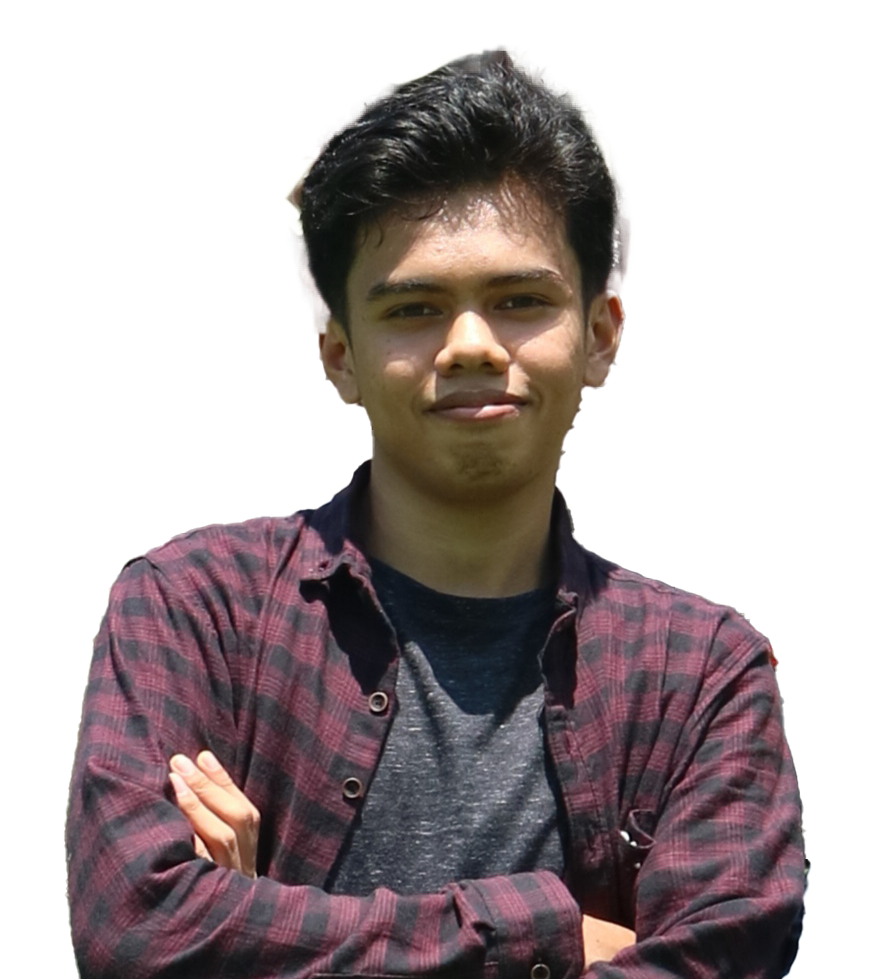
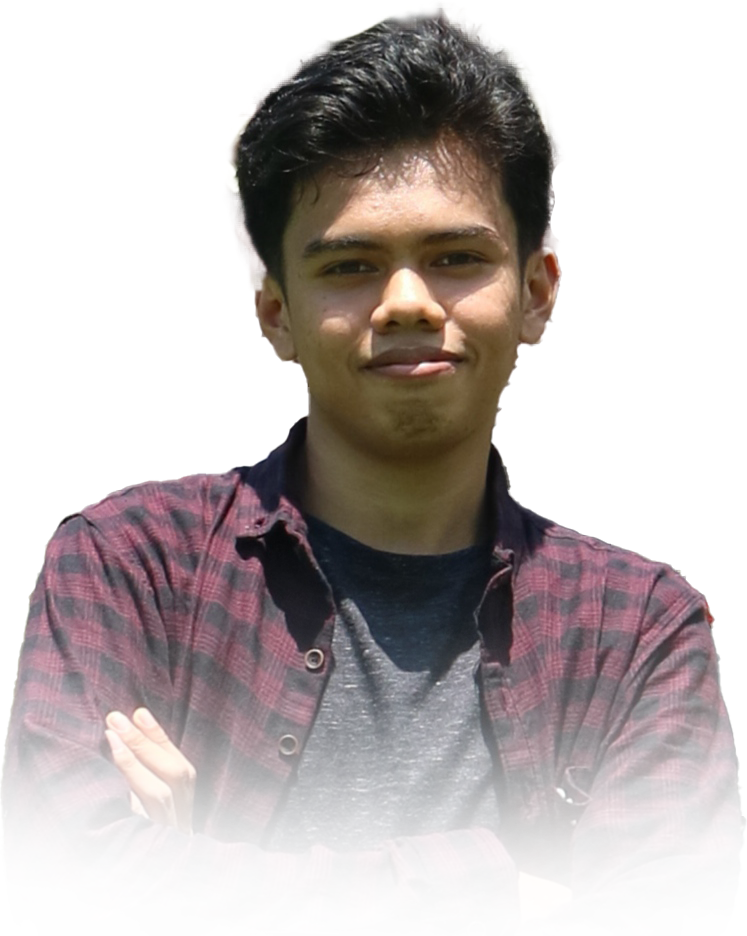
feat: replace SVG with Next.js Image component in Hero section and update image styles

diff --git a/components/Hero.tsx b/components/Hero.tsx
@@ -1,3 +1,5 @@
+import Image from "next/image";
+
 import type { HeroContent } from "../data/portfolio";
 
 type HeroProps = {
@@ -68,31 +70,16 @@ export function Hero({ content }: HeroProps) {
         ))}
       </div>
 
-      <div className="home__img absolute bottom-0 right-0 w-[260px] max-[585px]:hidden sm:bottom-[25%] sm:w-[240px] md:bottom-[10%] md:w-[300px] lg:w-[450px]">
-        <svg
-          className="home__blob fill-accent"
-          viewBox="0 0 479 467"
-          role="img"
-          aria-label={image.alt}
-          xmlns="http://www.w3.org/2000/svg"
-          xmlnsXlink="http://www.w3.org/1999/xlink"
-        >
-          <mask id="mask0">
-            <path
-              fill="#fff"
-              d="M9.19024 145.964C34.0253 76.5814 114.865 54.7299 184.111 29.4823C245.804 6.98884 311.86 -14.9503 370.735 14.143C431.207 44.026 467.948 107.508 477.191 174.311C485.897 237.229 454.931 294.377 416.506 344.954C373.74 401.245 326.068 462.801 255.442 466.189C179.416 469.835 111.552 422.137 65.1576 361.805C17.4835 299.81 -17.1617 219.583 9.19024 145.964Z"
-            />
-          </mask>
-          <g mask="url(#mask0)">
-            <path d="M9.19024 145.964C34.0253 76.5814 114.865 54.7299 184.111 29.4823C245.804 6.98884 311.86 -14.9503 370.735 14.143C431.207 44.026 467.948 107.508 477.191 174.311C485.897 237.229 454.931 294.377 416.506 344.954C373.74 401.245 326.068 462.801 255.442 466.189C179.416 469.835 111.552 422.137 65.1576 361.805C17.4835 299.81 -17.1617 219.583 9.19024 145.964Z" />
-            <image
-              className="home__blob-img w-[23rem]"
-              x="50"
-              y="70"
-              xlinkHref={image.src}
-            />
-          </g>
-        </svg>
+      <div className="home__img absolute bottom-0 right-0 w-[300px] max-[585px]:hidden sm:bottom-[25%] sm:w-[280px] md:bottom-[10%] md:w-[340px] lg:w-[520px]">
+        <Image
+          src={image.src}
+          alt={image.alt}
+          width={640}
+          height={800}
+          sizes="(min-width: 1200px) 520px, (min-width: 768px) 340px, 280px"
+          className="w-full rounded-3xl object-cover"
+          priority
+        />
       </div>
     </section>
   );

diff --git a/components/Navigation.tsx b/components/Navigation.tsx
@@ -30,7 +30,7 @@ export function Navigation({
         </div>
 
         <div
-          className={`nav__menu fixed top-14 left-4 right-4 h-[calc(100vh-3.5rem)] overflow-y-auto rounded-3xl border border-white/10 bg-base/95 p-8 shadow-nav backdrop-blur-2xl transition-transform duration-500 md:static md:h-auto md:translate-x-0 md:border-none md:bg-transparent md:p-0 md:shadow-none md:backdrop-blur-0 md:transition-none ${
+          className={`nav__menu fixed top-14 left-4 right-4 rounded-3xl border border-white/10 bg-base/95 p-6 shadow-nav backdrop-blur-2xl transition-transform duration-500 md:static md:translate-x-0 md:border-none md:bg-transparent md:p-0 md:shadow-none md:backdrop-blur-0 md:transition-none ${
             menuOpen ? "translate-x-0" : "translate-x-[calc(100%+1rem)]"
           }`}
           id="nav-menu"
